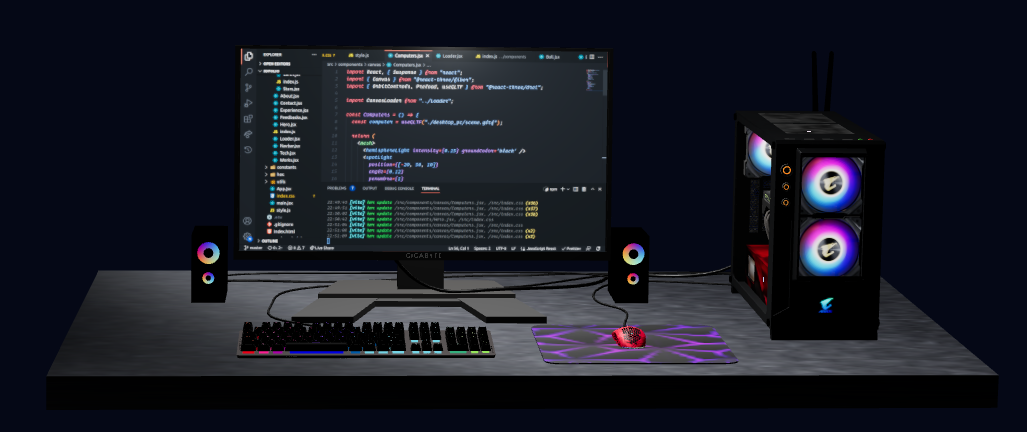
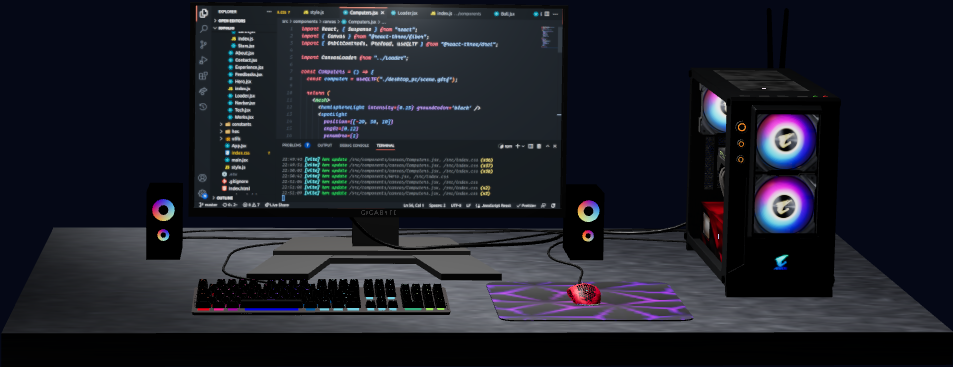
hero fix

Changed region(s): [[0.0, 0.0, 1.0, 0.9292]]

diff --git a/src/components/Hero.jsx b/src/components/Hero.jsx
@@ -5,7 +5,7 @@ import { ComputersCanvas } from "./canvas";
 
 const Hero = ({ isMobile }) => {
   return (
-    <section className={`relative w-full h-screen mx-auto`}>
+    <section className={`relative w-full h-[96vh] sm:h-screen mx-auto`}>
       <div
         className={`absolute inset-0 top-[120px]  max-w-7xl mx-auto ${styles.paddingX} flex flex-row items-start gap-5`}
       >
@@ -30,7 +30,7 @@ const Hero = ({ isMobile }) => {
         <img
           src="/pc.png"
           alt="pc"
-          className="absolute bottom-20 object-contain w-full h-1/3 scale-125"
+          className="absolute bottom-20 object-contain w-full h-1/3"
         />
       ) : (
         <ComputersCanvas />

diff --git a/src/components/Navbar.jsx b/src/components/Navbar.jsx
@@ -45,11 +45,10 @@ const Navbar = () => {
           <img
             src={logo}
             alt="logo"
-            className="w-20 h-20 object-contain rounded-s-xl"
+            className="w-20 h-20 object-cover rounded-s-xl"
           />
-          <p className="text-white text-[18px] font-bold cursor-pointer flex ">
-            Khalifa &nbsp;
-            <span className="sm:block hidden"> | Software Engineer</span>
+          <p className="text-white text-[14px] sm:text-[18px] font-bold cursor-pointer flex">
+            Software Engineer
           </p>
         </Link>
 
